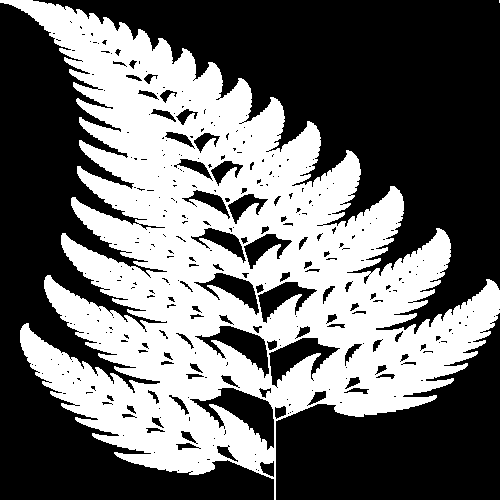
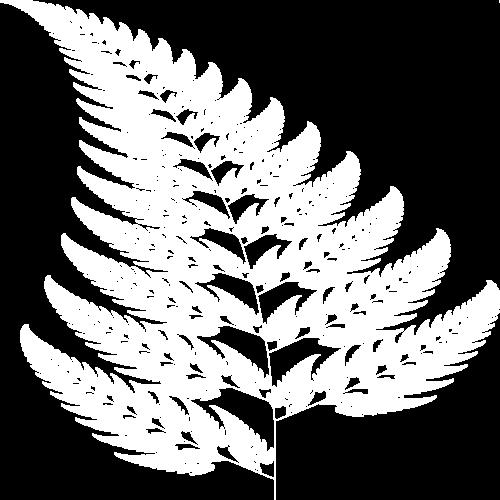
some minor cleanup

Changed region(s): [[0.87, 0.75, 0.9, 0.78], [0.24, 0.81, 0.27, 0.84]]

diff --git a/src/main.rs b/src/main.rs
@@ -1,13 +1,8 @@
-use ndarray::{arr1, arr2, Array2};
+use ndarray::{arr2, Array2};
 use std::cmp;
-use std::hash::Hash;
-use std::{marker::PhantomData, collections::HashMap};
-
-use serde::de::{Deserialize, Deserializer, Visitor, MapAccess};
 
 use std::fs::read_to_string;
-use std::io::copy;
-use std::io::stdout;
+use std::collections::HashMap;
 
 mod chaos_game;
 use chaos_game::*;
@@ -23,7 +18,6 @@ pub(crate) struct Transform {
 
 #[derive(Debug)]
 struct Ifs {
-    name: String,
     transforms: Vec<Transform>
 }
 
@@ -99,20 +93,8 @@ fn parse_transforms(json: &serde_json::Value) -> Vec<Transform> {
 
 fn main() {
     let mut db: HashMap<String, Box<Ifs>> = HashMap::new();
-    let vec = arr1(&[1, 1, 1]);
 
-    // two rows, three columns
-    let mat = arr2(&[
-        [1,0,1],
-        [0,1,2]
-        ]);
-
-    // vec in a column vector 
-    let res = mat.dot(&vec);
-
-    println!("{}, {}", res[0], res[1]);
-
-    let mut str = read_to_string("/Users/homer/rustic-fractals/src/ifs_presets.json").expect("Cannot read file!");
+    let str = read_to_string("/Users/homer/rustic-fractals/src/ifs_presets.json").expect("Cannot read file!");
     let json: serde_json::Value = serde_json::from_str(&str).expect("JSON was not well-formatted");
 
     match json {
@@ -126,7 +108,7 @@ fn main() {
                         let json_transforms = map.get_key_value("transforms").unwrap().1;
                         let transforms = parse_transforms(json_transforms);
 
-                        let boxed: Box<Ifs> = Box::new(Ifs{ name: name.to_string(), transforms: transforms });
+                        let boxed: Box<Ifs> = Box::new(Ifs{ transforms: transforms });
                         db.insert(name.to_string(), boxed);
                     },
                     _ => continue
@@ -140,8 +122,8 @@ fn main() {
    let transforms = db.get_key_value("Barnsley fern").unwrap().1;
 
    // increase number of iterations for longer computation and more precise picture
-   let hist = chaos_game::run_chaos_game(&transforms.transforms, 2000*2000);
-   let img = frac_render::img_bw(hist, (500, 500));
+   let hist = run_chaos_game(&transforms.transforms, 2000*2000);
+   let img = img_bw(hist, (500, 500));
 
    img.save("fractal.png").unwrap();
 }

diff --git a/src/frac_render.rs b/src/frac_render.rs
@@ -30,9 +30,6 @@ fn resample_regular(histogram: Box<[u16]>,
     
     assert!(HIST_DIM % img_sz.0 == 0 && HIST_DIM % img_sz.1 == 0);
 
-    let mut x_img: usize = 0;
-    let mut y_img: usize = 0;
-
     let x_scale = (HIST_DIM / img_sz.0) as usize;
     let y_scale = (HIST_DIM / img_sz.1) as usize;
     // - todo: redo with ranges
@@ -59,7 +56,7 @@ fn resample_regular(histogram: Box<[u16]>,
 
                     let lin_idx = sub_y*(HIST_DIM as usize)+sub_x;
 
-                    summed += (histogram[lin_idx] as f32);
+                    summed += histogram[lin_idx] as f32;
                     count_summed += 1;
                 }
             }
@@ -67,7 +64,7 @@ fn resample_regular(histogram: Box<[u16]>,
             if summed > 0.0 {
                 count_non_zero += 1;
             }
-            subsampled[y_img*img_width+x_img] = summed; // (count_summed as f32);
+            subsampled[y_img*img_width+x_img] = summed / (count_summed as f32);
         }
     }
 

diff --git a/src/chaos_game.rs b/src/chaos_game.rs
@@ -8,7 +8,6 @@ struct Point {
     y: f32
 }
 
-
 #[derive(Debug)]
 struct Rect {
     top_left: Point,
